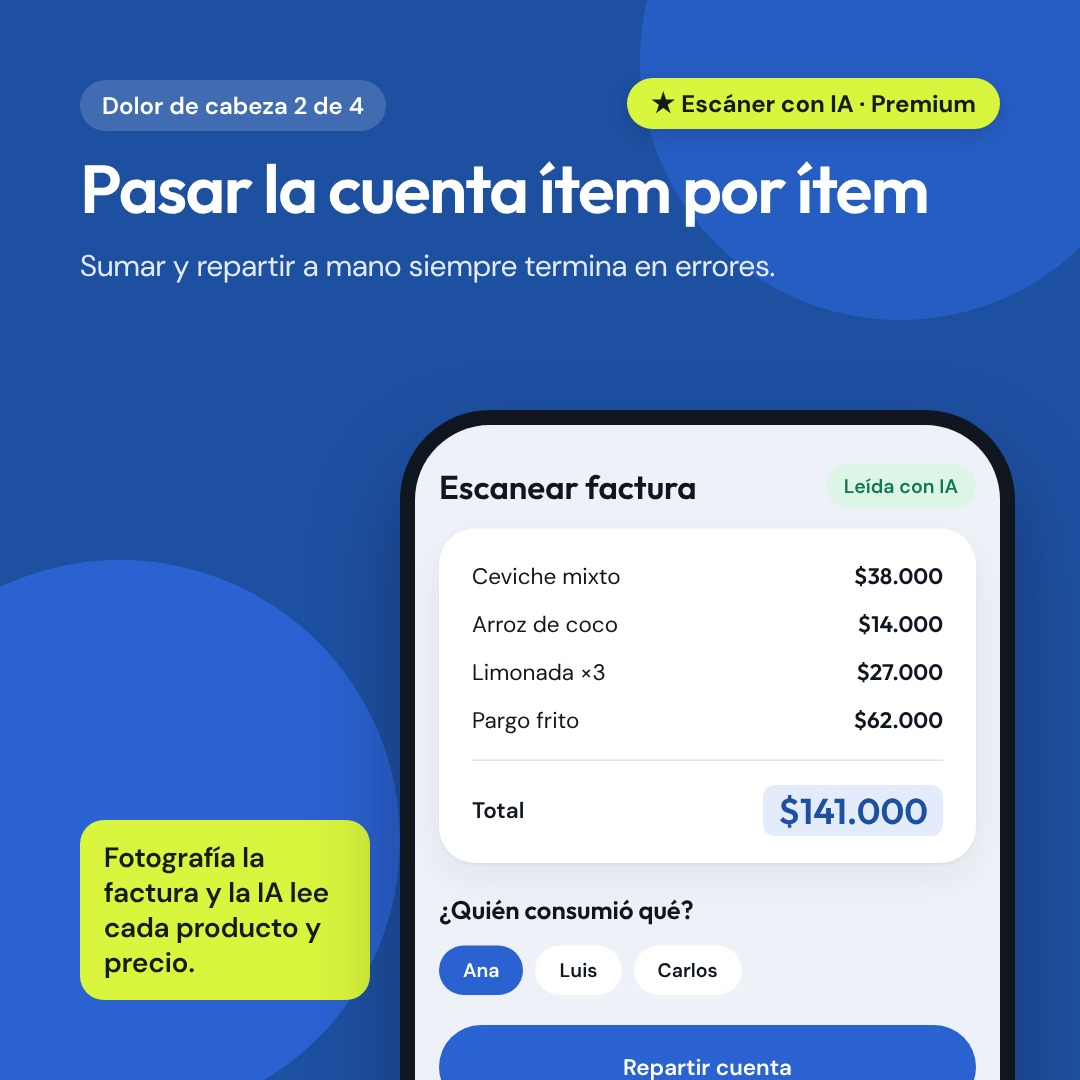
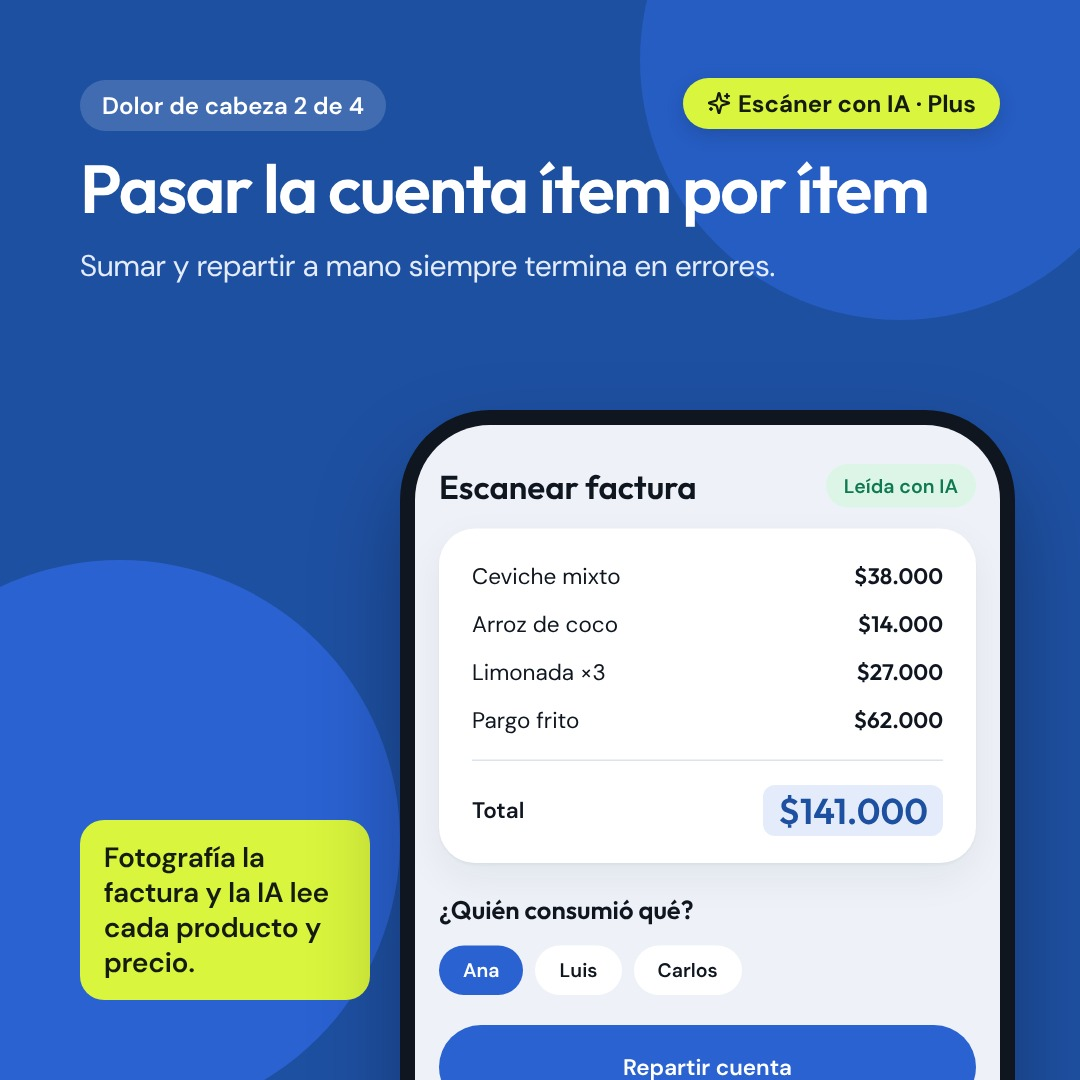
Premium pasa a llamarse Plus (con ícono de destello), préstamos en cuotas como serie propia (P22 + story), se elimina el refrán; imágenes re-exportadas
Claude-Session: https://claude.ai/code/session_01HbH3V5Jue1qgoVzDuP3Li2

Changed region(s): [[0.5806, 0.0611, 0.9167, 0.1222]]

diff --git a/CLAUDE.md b/CLAUDE.md
@@ -19,8 +19,8 @@ La usuaria (Daniela) no es técnica: explícale todo en español, claro y paso a
 3. **Nunca imprimas ni guardes tokens** en archivos, commits, logs ni en el chat. Si ella te pega uno, úsalo solo para `gh secret set` y no lo repitas.
 4. Antes de cualquier publicación real corre una validación: `DRY_RUN=1` (o el workflow con `dry_run=1`). Verifica que cada imagen sea pública y JPEG.
 5. No re-publiques lo que ya está en `state/published.json`.
-6. Tono de las descripciones: cercano, claro, en español de Colombia, sin exagerar. No prometas funciones que no existen: hoy Collecta **no guarda ni mueve dinero** (cada quien paga por su banco y quien recibe confirma). El escáner con IA ya funciona pero es **premium**. El primer y el último post de cada serie llevan el enlace de la app: https://collecta-xi.vercel.app
-7. **Gratis vs premium** (según el pitch deck): la versión beta gratuita incluye grupos, 4 formas de dividir (iguales, montos exactos, por ítem con propina, por noches), registro y confirmación de pagos y captura manual con foto del comprobante. Son **premium**: metas de ahorro, gastos automáticos, préstamos en cuotas y escáner con IA. Distinción discreta; no pongas precios en las publicaciones. Para lo premium el llamado es «adquiérela desde la app» (nunca «escríbenos»).
+6. Tono de las descripciones: cercano, claro, en español de Colombia, sin exagerar. No prometas funciones que no existen: hoy Collecta **no guarda ni mueve dinero** (cada quien paga por su banco y quien recibe confirma). El escáner con IA ya funciona pero es **Plus**. El primer y el último post de cada serie llevan el enlace de la app: https://collecta-xi.vercel.app
+7. **Gratis vs Plus** (según el pitch deck): la versión beta gratuita incluye grupos, 4 formas de dividir (iguales, montos exactos, por ítem con propina, por noches), registro y confirmación de pagos y captura manual con foto del comprobante. Son **Plus**: metas de ahorro, gastos automáticos, préstamos en cuotas y escáner con IA. Distinción discreta; no pongas precios en las publicaciones. Para lo Plus el llamado es «adquiérela desde la app» (nunca «escríbenos»).
 8. Hashtags: pocos (4–8), relevantes. Se agregan al final de la descripción al publicar.
 
 ## Tareas habituales
